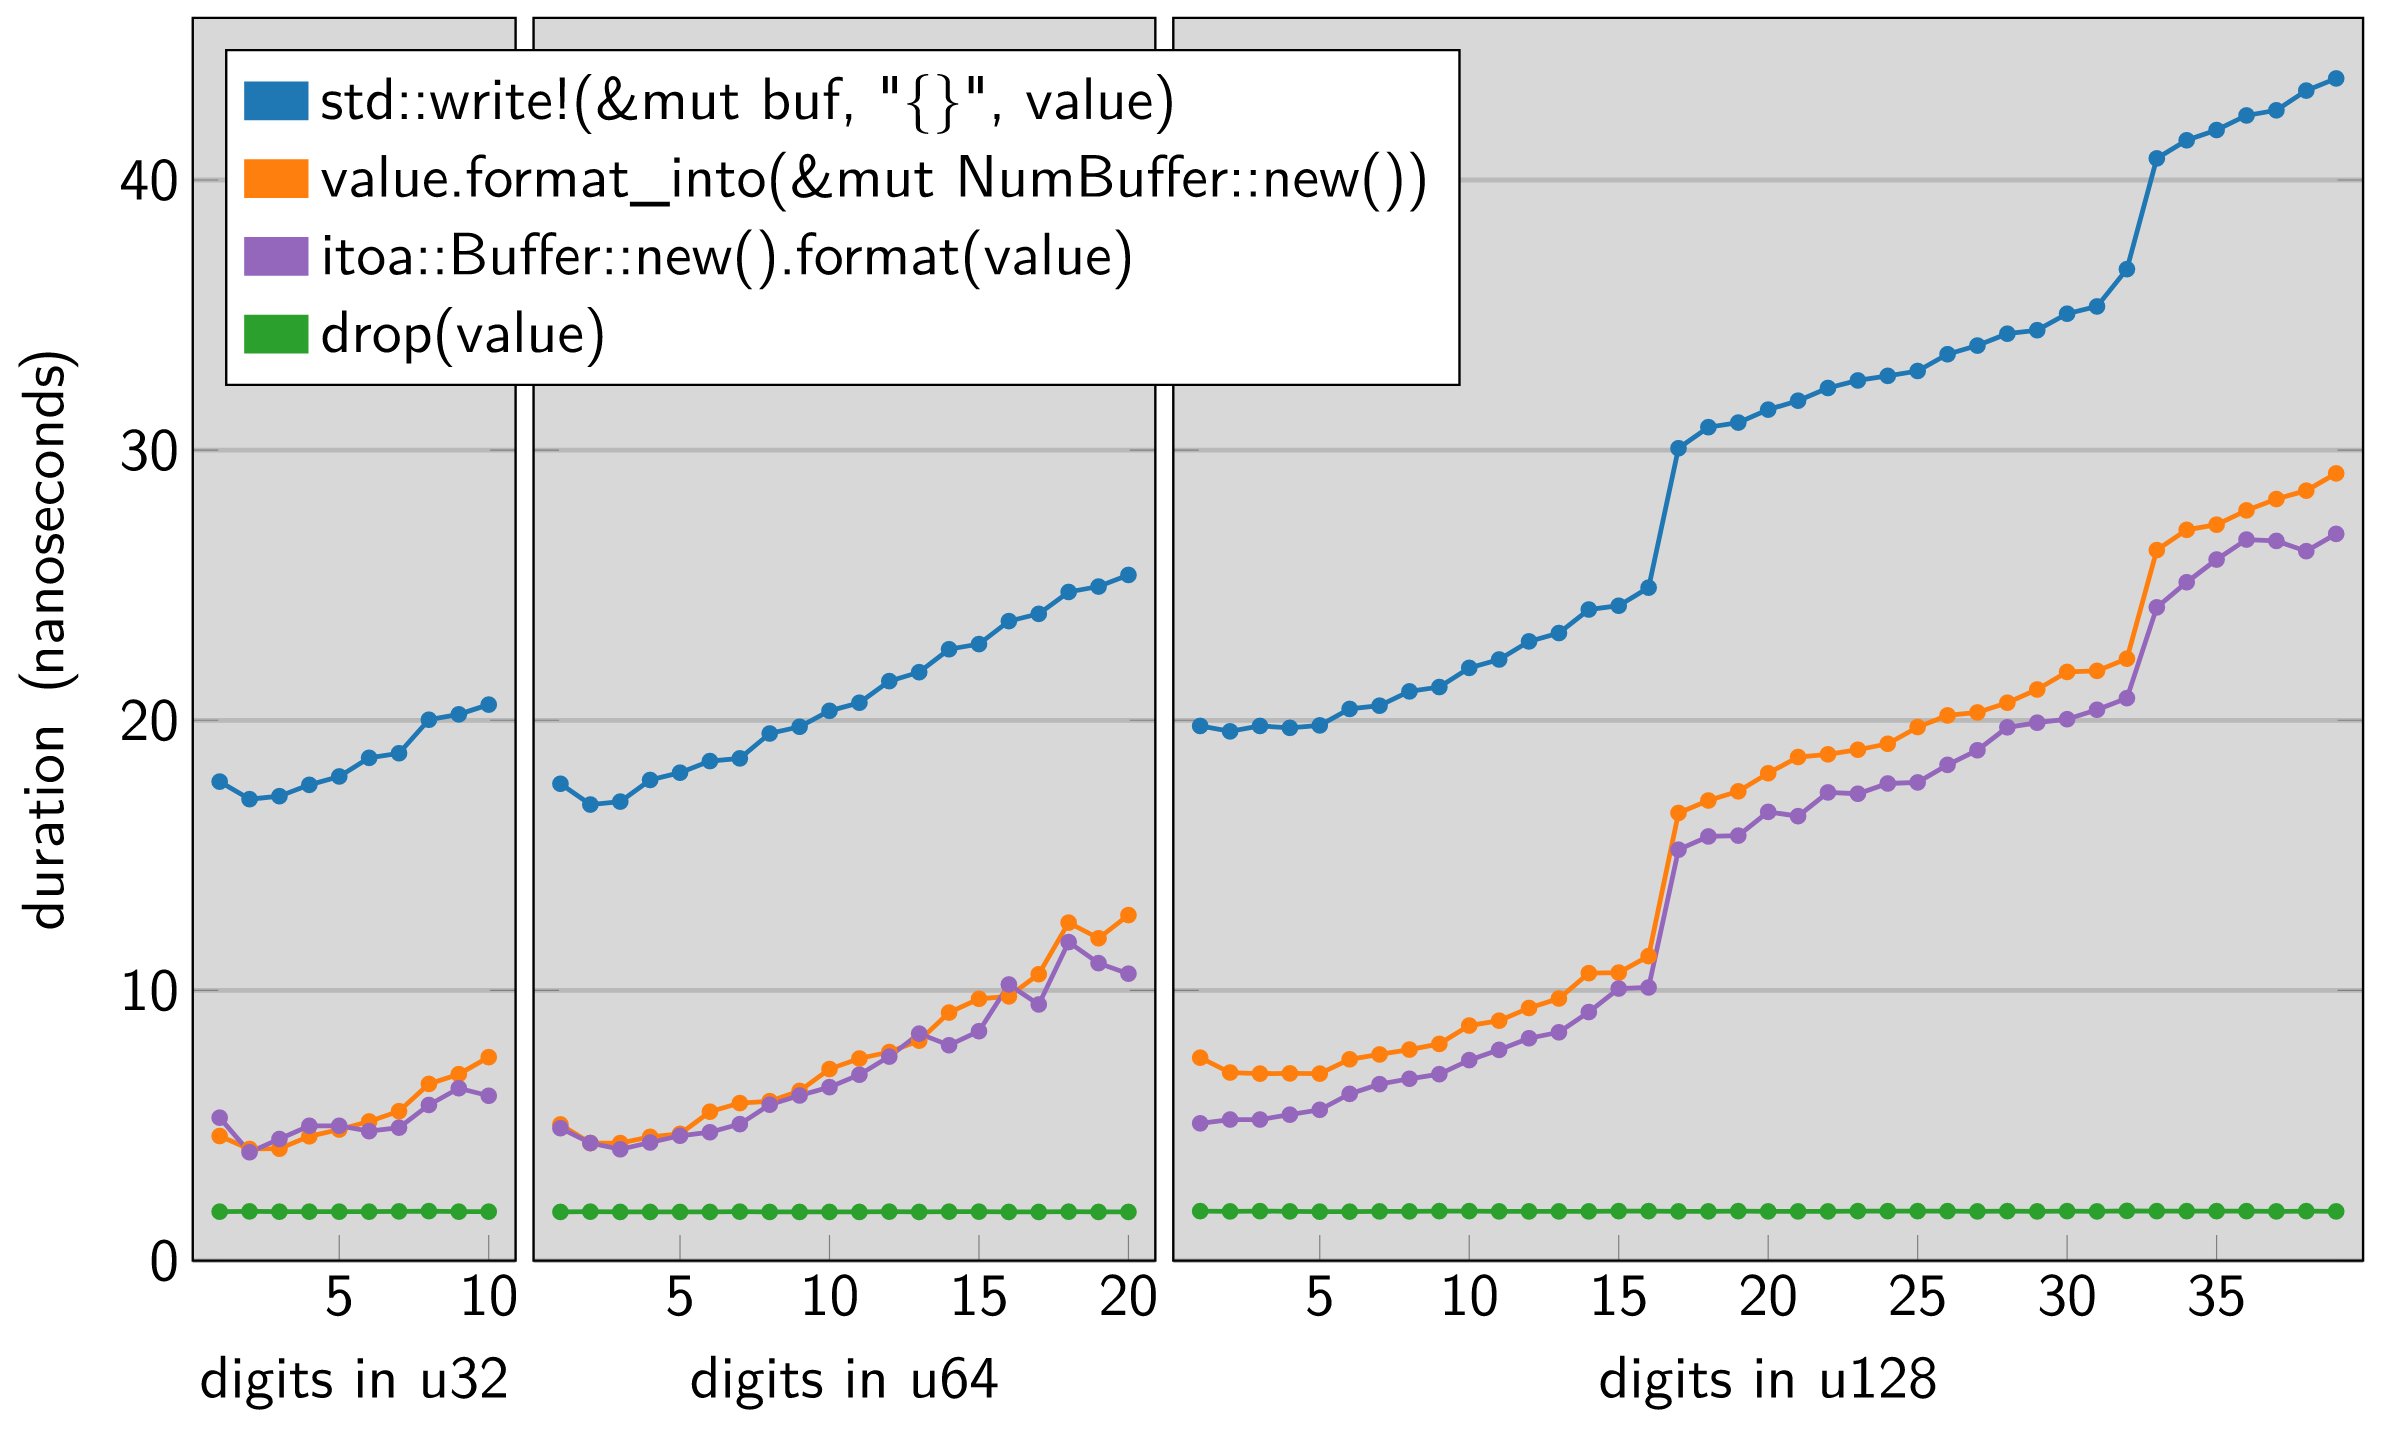
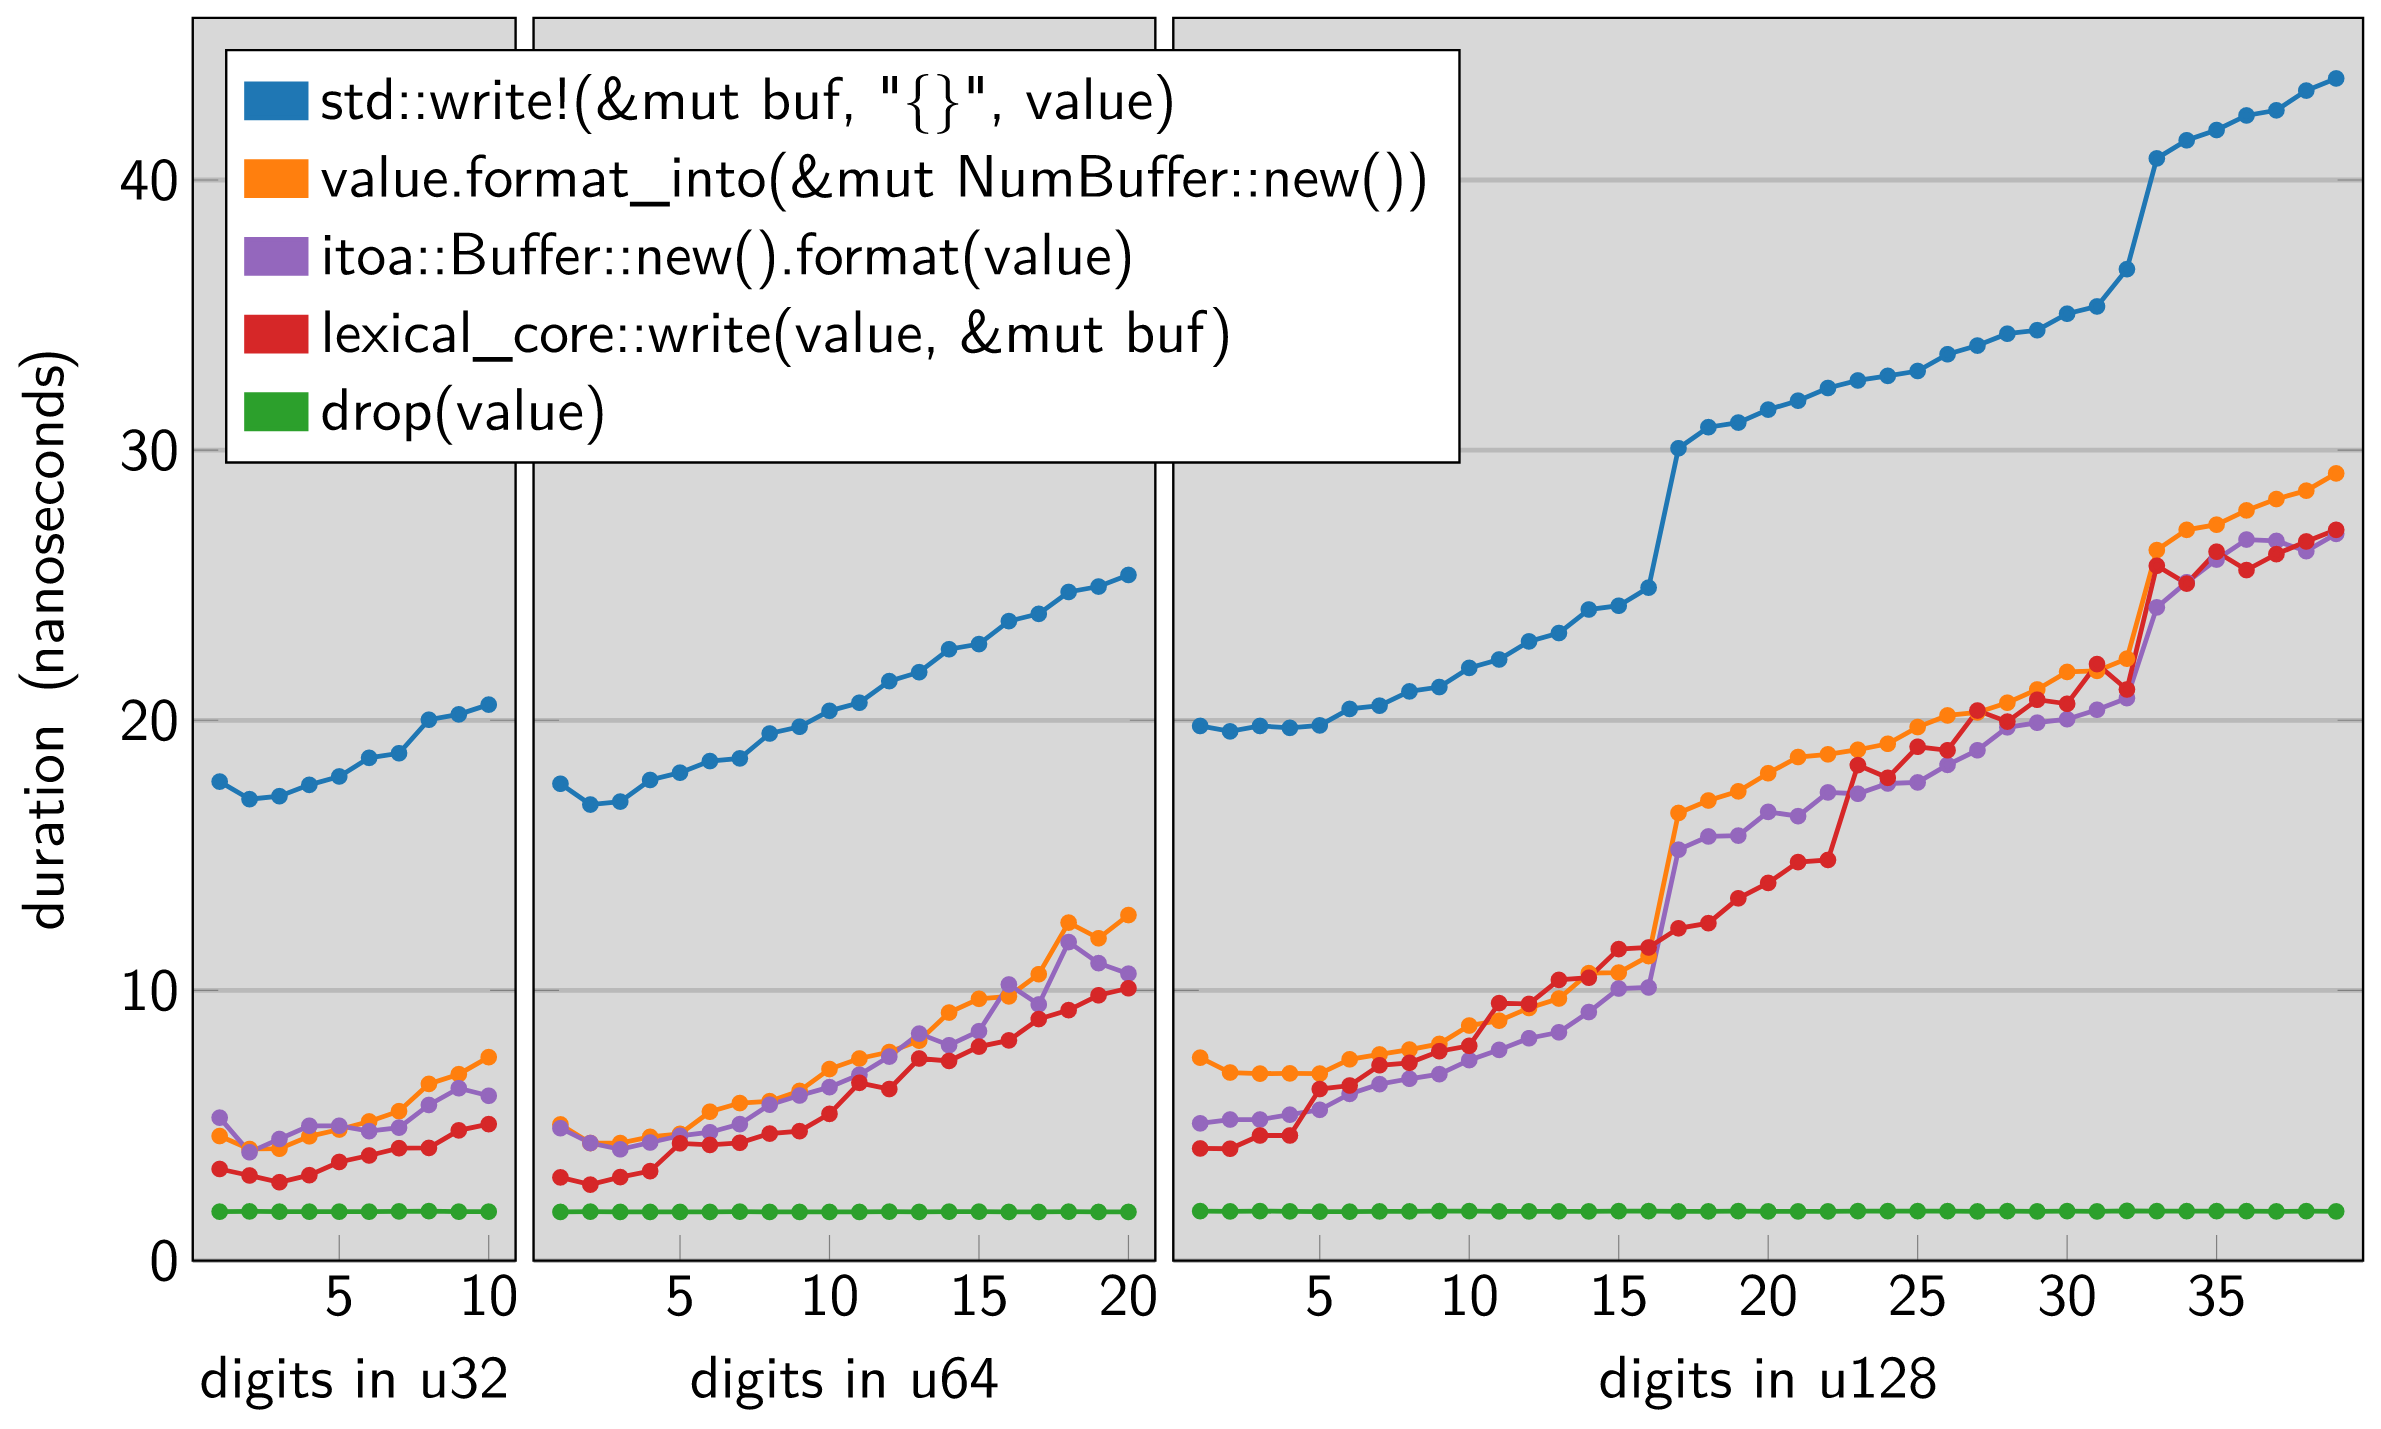
Add lexical-core to chart

diff --git a/chart/performance.tex b/chart/performance.tex
@@ -6,6 +6,7 @@
 \definecolor{std}{HTML}{1F77B4}
 \definecolor{numbuffer}{HTML}{FF7F0E}
 \definecolor{itoa}{HTML}{9467BD}
+\definecolor{lexical}{HTML}{D62728}
 \definecolor{null}{HTML}{2CA02C}
 \tikzset{
   on layer/.code={
@@ -109,6 +110,20 @@
     (9, 6.38)
     (10, 6.10)
   };
+  \addlegendentry{lexical\_core::write(value, \&mut buf)}
+  \addlegendimage{color=lexical, fill, area legend}
+  \addplot[color=lexical] coordinates {
+    (1, 3.39)
+    (2, 3.15)
+    (3, 2.90)
+    (4, 3.16)
+    (5, 3.65)
+    (6, 3.89)
+    (7, 4.16)
+    (8, 4.17)
+    (9, 4.82)
+    (10, 5.05)
+  };
   \addlegendentry{drop(value)}
   \addlegendimage{color=null, fill, area legend}
   \addplot[color=null] coordinates {
@@ -199,6 +214,28 @@
     (18, 11.79)
     (19, 11.01)
     (20, 10.62)
+  };
+  \addplot[color=lexical] coordinates {
+    (1, 3.08)
+    (2, 2.81)
+    (3, 3.09)
+    (4, 3.31)
+    (5, 4.34)
+    (6, 4.28)
+    (7, 4.36)
+    (8, 4.70)
+    (9, 4.79)
+    (10, 5.43)
+    (11, 6.58)
+    (12, 6.35)
+    (13, 7.48)
+    (14, 7.39)
+    (15, 7.92)
+    (16, 8.15)
+    (17, 8.94)
+    (18, 9.27)
+    (19, 9.82)
+    (20, 10.08)
   };
   \addplot[color=null] coordinates {
     (1, 1.80)
@@ -356,6 +393,47 @@
     (37, 26.64)
     (38, 26.26)
     (39, 26.90)
+  };
+  \addplot[color=lexical] coordinates {
+    (1, 4.15)
+    (2, 4.14)
+    (3, 4.63)
+    (4, 4.63)
+    (5, 6.35)
+    (6, 6.48)
+    (7, 7.23)
+    (8, 7.32)
+    (9, 7.75)
+    (10, 7.95)
+    (11, 9.53)
+    (12, 9.50)
+    (13, 10.39)
+    (14, 10.47)
+    (15, 11.53)
+    (16, 11.59)
+    (17, 12.30)
+    (18, 12.49)
+    (19, 13.41)
+    (20, 13.98)
+    (21, 14.75)
+    (22, 14.83)
+    (23, 18.34)
+    (24, 17.87)
+    (25, 19.02)
+    (26, 18.89)
+    (27, 20.36)
+    (28, 19.95)
+    (29, 20.76)
+    (30, 20.61)
+    (31, 22.08)
+    (32, 21.14)
+    (33, 25.72)
+    (34, 25.06)
+    (35, 26.24)
+    (36, 25.56)
+    (37, 26.15)
+    (38, 26.62)
+    (39, 27.05)
   };
   \addplot[color=null] coordinates {
     (1, 1.83)
